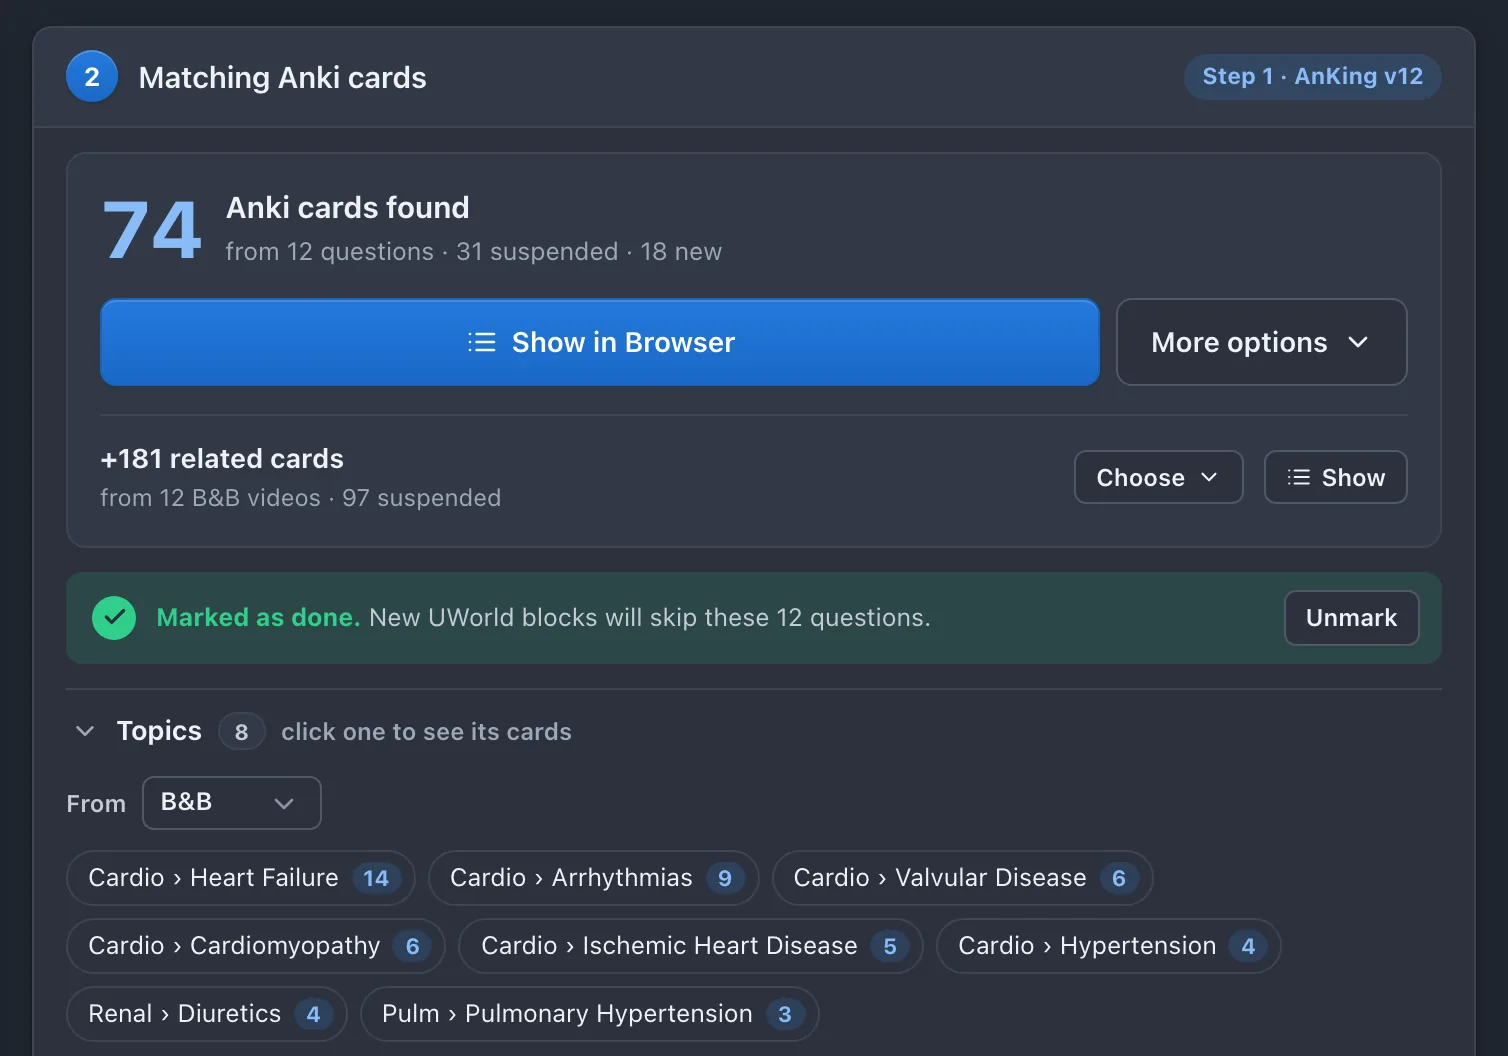
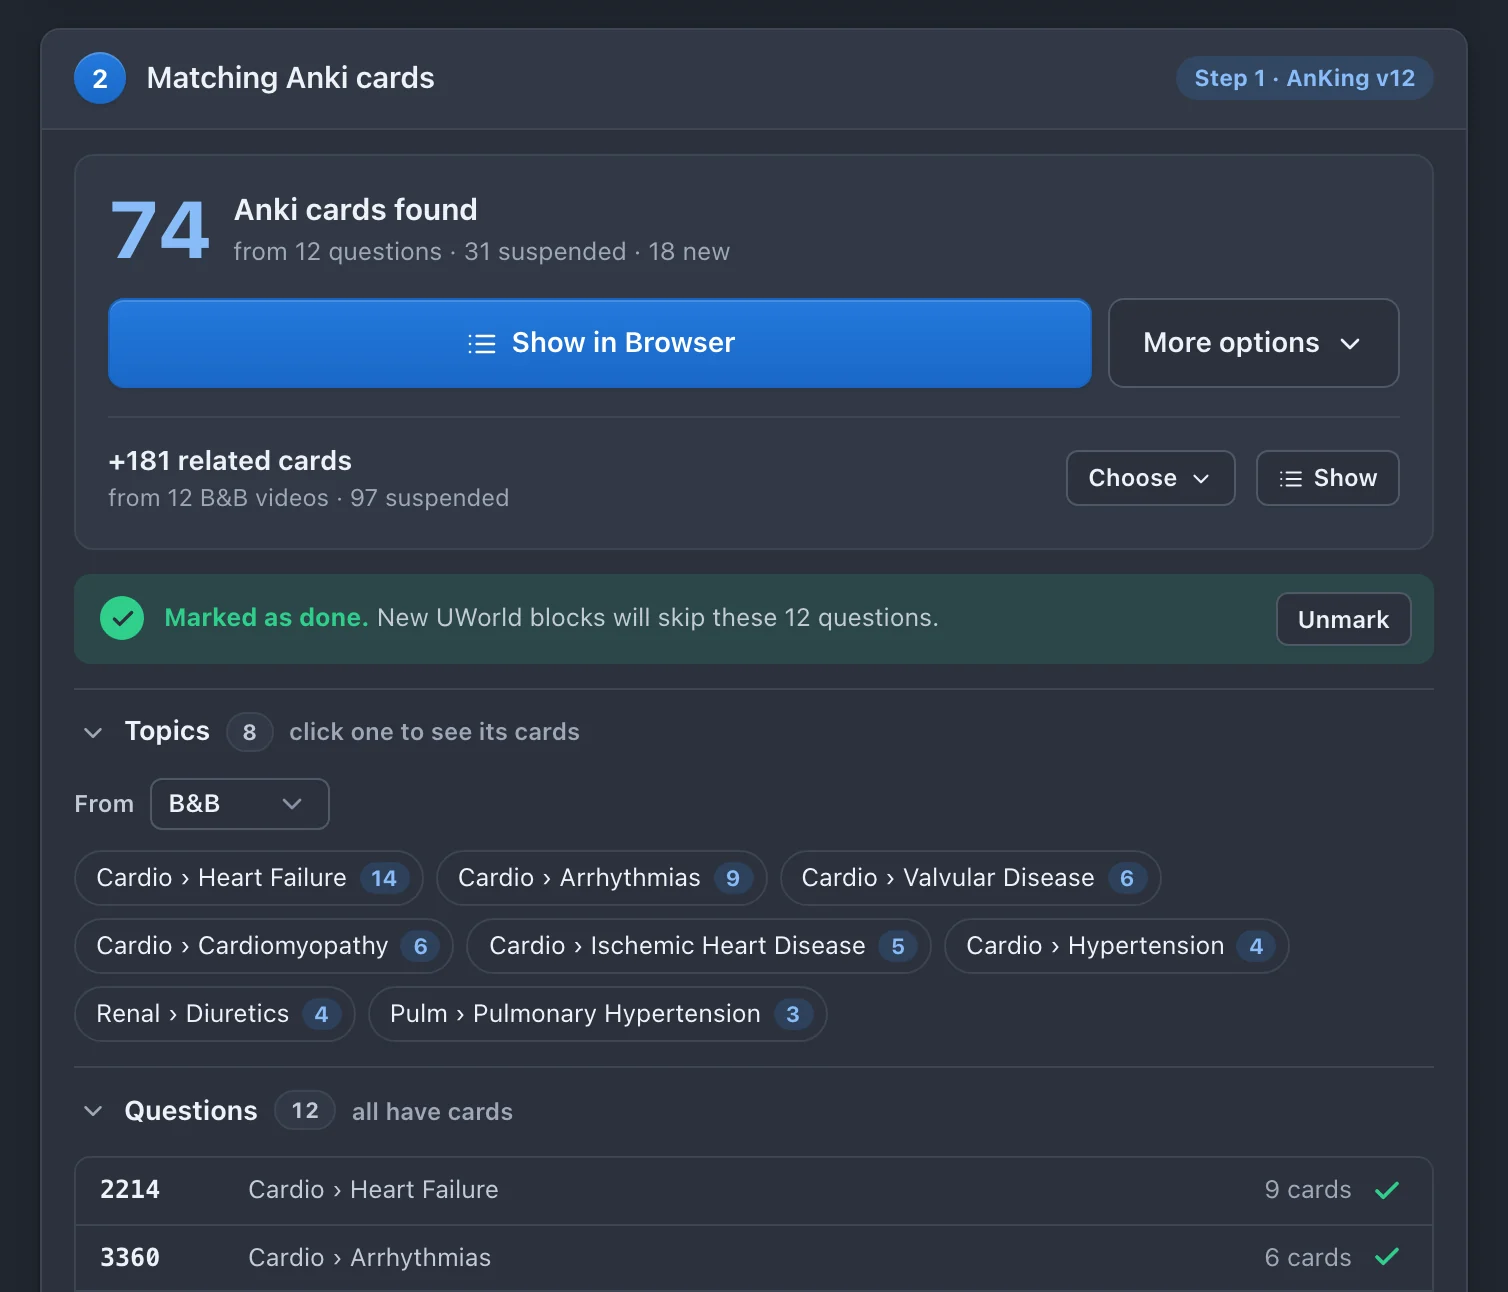
Both add-on tabs in the hero

diff --git a/index.html b/index.html
@@ -90,6 +90,9 @@
   <symbol id="i-both" viewBox="0 0 24 24"><path d="M4 8h14.5M15 4.5 18.5 8 15 11.5" fill="none" stroke="currentColor" stroke-width="1.8" stroke-linecap="round" stroke-linejoin="round"/><path d="M20 16H5.5M9 12.5 5.5 16 9 19.5" fill="none" stroke="currentColor" stroke-width="1.8" stroke-linecap="round" stroke-linejoin="round"/></symbol>
   <symbol id="i-blocks" viewBox="0 0 24 24"><rect x="3.5" y="3.5" width="7.25" height="7.25" rx="1.8" fill="none" stroke="currentColor" stroke-width="1.8"/><rect x="13.25" y="3.5" width="7.25" height="7.25" rx="1.8" fill="none" stroke="currentColor" stroke-width="1.8"/><rect x="3.5" y="13.25" width="7.25" height="7.25" rx="1.8" fill="none" stroke="currentColor" stroke-width="1.8"/><rect x="13.25" y="13.25" width="7.25" height="7.25" rx="1.8" fill="currentColor" stroke="currentColor" stroke-width="1.8"/></symbol>
   <symbol id="i-history" viewBox="0 0 24 24"><path d="M4 12a8 8 0 1 0 2.4-5.7M4 4.5V8.5h4" fill="none" stroke="currentColor" stroke-width="1.8" stroke-linecap="round" stroke-linejoin="round"/><path d="M12 8v4.3l2.8 1.8" fill="none" stroke="currentColor" stroke-width="1.8" stroke-linecap="round" stroke-linejoin="round"/></symbol>
+  <!-- The add-on's own tab icons: Find Cards (inbox), Find Questions (layers) -->
+  <symbol id="i-inbox" viewBox="0 0 24 24"><g fill="none" stroke="currentColor" stroke-width="1.9" stroke-linecap="round" stroke-linejoin="round"><path d="M22 12h-6l-2 3h-4l-2-3H2"/><path d="M5.45 5.11 2 12v6a2 2 0 0 0 2 2h16a2 2 0 0 0 2-2v-6l-3.45-6.89A2 2 0 0 0 16.76 4H7.24a2 2 0 0 0-1.79 1.11z"/></g></symbol>
+  <symbol id="i-layers" viewBox="0 0 24 24"><g fill="none" stroke="currentColor" stroke-width="1.9" stroke-linecap="round" stroke-linejoin="round"><path d="m12 2 10 5-10 5L2 7l10-5z"/><path d="m2 17 10 5 10-5M2 12l10 5 10-5"/></g></symbol>
   <symbol id="i-target" viewBox="0 0 24 24"><circle cx="12" cy="12" r="8.5" fill="none" stroke="currentColor" stroke-width="1.8"/><circle cx="12" cy="12" r="4.5" fill="none" stroke="currentColor" stroke-width="1.8"/><circle cx="12" cy="12" r="1.4" fill="currentColor"/></symbol>
 </svg>
 
@@ -166,30 +169,68 @@
 
   <div class="container hero-visual">
     <div class="hero-shot">
-      <!-- One quiet touch of the logo's bridge: a thin arch over the window -->
-      <svg class="hero-arc" viewBox="0 0 1000 100" aria-hidden="true" focusable="false"><path pathLength="1" d="M40 96A1500 1500 0 0 1 960 96"/></svg>
-      <!-- Phones get just the right-hand panel (74 cards found, topics), big enough to read at a glance -->
-      <figure class="win">
-        <picture class="only-light">
-          <source media="(max-width: 599px)" type="image/webp" srcset="assets/screens/find-cards-panel-light@2x.webp 1508w" sizes="92vw" width="754" height="528">
-          <source media="(max-width: 599px)" srcset="assets/screens/find-cards-panel-light@2x.png 1508w" sizes="92vw" width="754" height="528">
-          <source type="image/webp" srcset="assets/screens/find-cards-light@1200.webp 1200w, assets/screens/find-cards-light@2x.webp 2400w"
-                  sizes="(max-width: 599px) 92vw, (max-width: 1100px) 88vw, 960px">
-          <img src="assets/screens/find-cards-light@2x.png" width="1200" height="906" loading="lazy" fetchpriority="high" decoding="async"
-               alt="UBridge’s Find Cards tab: 74 Anki cards found from 12 pasted UWorld question IDs, with a Show in Browser button and the topics those cards cover.">
-        </picture>
-        <picture class="only-dark">
-          <source media="(max-width: 599px)" type="image/webp" srcset="assets/screens/find-cards-panel-dark@2x.webp 1508w" sizes="92vw" width="754" height="528">
-          <source media="(max-width: 599px)" srcset="assets/screens/find-cards-panel-dark@2x.png 1508w" sizes="92vw" width="754" height="528">
-          <source type="image/webp" srcset="assets/screens/find-cards-dark@1200.webp 1200w, assets/screens/find-cards-dark@2x.webp 2400w"
-                  sizes="(max-width: 599px) 92vw, (max-width: 1100px) 88vw, 960px">
-          <img src="assets/screens/find-cards-dark@2x.png" width="1200" height="906" loading="lazy" fetchpriority="high" decoding="async"
-               alt="UBridge’s Find Cards tab: 74 Anki cards found from 12 pasted UWorld question IDs, with a Show in Browser button and the topics those cards cover.">
-        </picture>
-      </figure>
-      <!-- Both copies are lazy so the other theme's never downloads; the one on show loads right away -->
-      <script>document.querySelectorAll(".hero-shot img").forEach(function (i) { if (i.offsetParent) i.loading = "eager"; });</script>
-      <p class="hero-caption"><span class="ui">Find Cards:</span> paste the IDs you missed, see the cards that teach them. Demo data.</p>
+      <!-- The add-on's two tabs, UWorld -> Anki first. Shown by script.js; without JS, Find Cards alone. -->
+      <div class="shot-tabs" role="tablist" aria-label="UBridge’s two tabs" hidden>
+        <button class="shot-tab" type="button" role="tab" id="tab-fc" aria-selected="true" aria-controls="shot-fc" tabindex="0"><svg class="shot-tab-icon" aria-hidden="true"><use href="#i-inbox"/></svg><span class="shot-tab-text"><span class="shot-tab-name">Find Cards</span><span class="shot-tab-dir">UWorld&nbsp;<span aria-hidden="true">→</span><span class="visually-hidden">to</span> Anki</span></span></button>
+        <button class="shot-tab" type="button" role="tab" id="tab-fq" aria-selected="false" aria-controls="shot-fq" tabindex="-1"><svg class="shot-tab-icon" aria-hidden="true"><use href="#i-layers"/></svg><span class="shot-tab-text"><span class="shot-tab-name">Find Questions</span><span class="shot-tab-dir">Anki&nbsp;<span aria-hidden="true">→</span><span class="visually-hidden">to</span> UWorld</span></span></button>
+      </div>
+      <div class="shot-stage">
+        <!-- One quiet touch of the logo's bridge: a thin arch over the window -->
+        <svg class="hero-arc" viewBox="0 0 1000 100" aria-hidden="true" focusable="false"><path pathLength="1" d="M40 96A1500 1500 0 0 1 960 96"/></svg>
+
+        <!-- Find Cards. Phones get just the right-hand panel (74 cards found, topics), big enough to read at a glance -->
+        <div class="shot-panel is-on" id="shot-fc" role="tabpanel" aria-labelledby="tab-fc">
+          <figure class="shot-fig">
+            <div class="win">
+              <picture class="only-light">
+                <source media="(max-width: 599px)" type="image/webp" srcset="assets/screens/find-cards-panel-light@2x.webp 1508w" sizes="92vw" width="754" height="646">
+                <source media="(max-width: 599px)" srcset="assets/screens/find-cards-panel-light@2x.png 1508w" sizes="92vw" width="754" height="646">
+                <source type="image/webp" srcset="assets/screens/find-cards-light@1200.webp 1200w, assets/screens/find-cards-light@2x.webp 2400w"
+                        sizes="(max-width: 599px) 92vw, (max-width: 1100px) 88vw, 960px" width="1200" height="904">
+                <img src="assets/screens/find-cards-light@2x.png" width="1200" height="904" loading="lazy" fetchpriority="high" decoding="async"
+                     alt="UBridge’s Find Cards tab: 74 Anki cards found from 12 pasted UWorld question IDs, with a Show in Browser button and the topics those cards cover.">
+              </picture>
+              <picture class="only-dark">
+                <source media="(max-width: 599px)" type="image/webp" srcset="assets/screens/find-cards-panel-dark@2x.webp 1508w" sizes="92vw" width="754" height="646">
+                <source media="(max-width: 599px)" srcset="assets/screens/find-cards-panel-dark@2x.png 1508w" sizes="92vw" width="754" height="646">
+                <source type="image/webp" srcset="assets/screens/find-cards-dark@1200.webp 1200w, assets/screens/find-cards-dark@2x.webp 2400w"
+                        sizes="(max-width: 599px) 92vw, (max-width: 1100px) 88vw, 960px" width="1200" height="904">
+                <img src="assets/screens/find-cards-dark@2x.png" width="1200" height="904" loading="lazy" fetchpriority="high" decoding="async"
+                     alt="UBridge’s Find Cards tab: 74 Anki cards found from 12 pasted UWorld question IDs, with a Show in Browser button and the topics those cards cover.">
+              </picture>
+            </div>
+            <figcaption class="hero-caption">Paste the IDs you missed, see the cards that teach them. Demo data.</figcaption>
+          </figure>
+        </div>
+
+        <!-- Find Questions. Lazy: script.js lets it load once the page has, so the first tab comes first.
+             Phones get its right-hand card (the stats and the ready-to-paste blocks). -->
+        <div class="shot-panel" id="shot-fq" role="tabpanel" aria-labelledby="tab-fq" hidden>
+          <figure class="shot-fig">
+            <div class="win">
+              <picture class="only-light">
+                <source media="(max-width: 599px)" type="image/webp" srcset="assets/screens/find-questions-panel-light@2x.webp 1508w" sizes="92vw" width="754" height="646">
+                <source media="(max-width: 599px)" srcset="assets/screens/find-questions-panel-light@2x.png 1508w" sizes="92vw" width="754" height="646">
+                <source type="image/webp" srcset="assets/screens/find-questions-light@1200.webp 1200w, assets/screens/find-questions-light@2x.webp 2400w"
+                        sizes="(max-width: 599px) 92vw, (max-width: 1100px) 88vw, 960px" width="1200" height="895">
+                <img src="assets/screens/find-questions-light@2x.png" width="1200" height="895" loading="lazy" decoding="async"
+                     alt="UBridge’s Find Questions tab: the UWorld questions behind your chosen Anki topics, split into ready-to-paste blocks of 40, each with Copy and Copy &amp; mark used buttons.">
+              </picture>
+              <picture class="only-dark">
+                <source media="(max-width: 599px)" type="image/webp" srcset="assets/screens/find-questions-panel-dark@2x.webp 1508w" sizes="92vw" width="754" height="646">
+                <source media="(max-width: 599px)" srcset="assets/screens/find-questions-panel-dark@2x.png 1508w" sizes="92vw" width="754" height="646">
+                <source type="image/webp" srcset="assets/screens/find-questions-dark@1200.webp 1200w, assets/screens/find-questions-dark@2x.webp 2400w"
+                        sizes="(max-width: 599px) 92vw, (max-width: 1100px) 88vw, 960px" width="1200" height="895">
+                <img src="assets/screens/find-questions-dark@2x.png" width="1200" height="895" loading="lazy" decoding="async"
+                     alt="UBridge’s Find Questions tab: the UWorld questions behind your chosen Anki topics, split into ready-to-paste blocks of 40, each with Copy and Copy &amp; mark used buttons.">
+              </picture>
+            </div>
+            <figcaption class="hero-caption">Pick topics, get ready-to-paste blocks of UWorld questions. Demo data.</figcaption>
+          </figure>
+        </div>
+      </div>
+      <!-- Both themes' copies are lazy so the other theme's never downloads; the one on show loads right away -->
+      <script>document.querySelectorAll("#shot-fc img").forEach(function (i) { if (i.offsetParent) i.loading = "eager"; });</script>
     </div>
   </div>
 </section>

diff --git a/styles.css b/styles.css
@@ -46,6 +46,11 @@
   --arc: #006dfd;
   --arc-soft: #75abfa;
   --hero-arc: rgba(0, 109, 253, .5);   /* the thin arch over the hero window */
+  --app-canvas: #e9edf2;           /* the add-on's own window background (from its screenshots) */
+  --seg-track: #edf0f4;            /* the hero's tab switcher, like the add-on's own */
+  --seg-on: #ffffff;
+  --seg-on-ink: #0b5bc4;
+  --seg-on-ring: 0 1px 3px rgba(10, 27, 45, .16), 0 0 0 1px rgba(11, 99, 214, .32);
   --stack-back: #90bbfa;
   --stack-mid: #c1d8fb;
 
@@ -108,6 +113,11 @@
     --arc: #1f78ff;
     --arc-soft: #75abfa;
     --hero-arc: rgba(117, 171, 250, .5);
+    --app-canvas: #21262f;
+    --seg-track: #0e1a2a;
+    --seg-on: #1b2d47;
+    --seg-on-ink: #d3e6fc;
+    --seg-on-ring: 0 1px 3px rgba(0, 0, 0, .4), 0 0 0 1px rgba(108, 176, 255, .5);
     --stack-back: rgba(31, 120, 255, .42);
     --stack-mid: rgba(31, 120, 255, .26);
     color-scheme: dark;
@@ -147,6 +157,11 @@
     --arc: #1f78ff;
     --arc-soft: #75abfa;
     --hero-arc: rgba(117, 171, 250, .5);
+    --app-canvas: #21262f;
+    --seg-track: #0e1a2a;
+    --seg-on: #1b2d47;
+    --seg-on-ink: #d3e6fc;
+    --seg-on-ring: 0 1px 3px rgba(0, 0, 0, .4), 0 0 0 1px rgba(108, 176, 255, .5);
     --stack-back: rgba(31, 120, 255, .42);
     --stack-mid: rgba(31, 120, 255, .26);
     color-scheme: dark;
@@ -539,7 +554,7 @@ html:not(.js) .theme-toggle { display: none; }          /* it needs JS to work *
 }
 
 /* ---- The app window, with one thin arch over it (the logo's bridge, quietly) ---- */
-.hero-visual { margin-top: clamp(64px, 7.5vw, 104px); }
+.hero-visual { margin-top: clamp(32px, 2.8vw, 40px); }
 .hero-shot {
   position: relative;
   width: min(100%, 960px);
@@ -555,14 +570,60 @@ html:not(.js) .theme-toggle { display: none; }          /* it needs JS to work *
 .hero-arc path { fill: none; stroke: var(--hero-arc); stroke-width: 2.2; stroke-linecap: round; }
 .win {
   position: relative; z-index: 1;
+  aspect-ratio: 1200 / 904;           /* both tabs share one frame, so switching never jumps */
   border-radius: var(--r-3);
   overflow: hidden;
   isolation: isolate;
-  background: var(--surface);
+  background: var(--app-canvas);      /* a shorter shot ends on the add-on's own background */
   box-shadow: 0 0 0 1px var(--frame-line), var(--hero-shadow);
 }
 .hero-caption { margin-top: 18px; font-size: var(--fs-small); color: var(--soft); text-wrap: balance; }
-.hero-caption .ui { font-weight: 600; color: var(--muted); }
+
+/* ---- The two tabs, drawn like the add-on's own switch: a sunken track, the chosen tab raised ---- */
+.shot-tabs {
+  display: flex; gap: 3px;
+  width: fit-content;
+  position: relative; z-index: 2;     /* wide screens: it sits in the arch, like a keystone */
+  margin: 0 auto max(10px, 7.2% - 30px);   /* the arch's crown (7.2% of the window's width up) meets its middle */
+  padding: 3px;
+  border-radius: 11px;
+  background: var(--seg-track);
+  border: 1px solid var(--line-strong);
+  box-shadow: inset 0 1px 2px rgba(10, 27, 45, .06);
+}
+.shot-tabs[hidden] { display: none; }
+.shot-tab {
+  -webkit-appearance: none; appearance: none;
+  -webkit-tap-highlight-color: transparent;
+  display: flex; align-items: center; justify-content: center; gap: 10px;
+  min-height: 44px;
+  padding: 6px 20px 6px 15px;
+  border: 0; border-radius: 8px;
+  background: transparent;
+  font: 600 .9375rem/1.2 var(--font-text);
+  color: var(--muted);
+  text-align: left;
+  cursor: pointer;
+  transition: background-color .2s var(--ease), color .2s var(--ease), box-shadow .2s var(--ease);
+}
+.shot-tab:hover { color: var(--ink); }
+.shot-tab[aria-selected="true"] { background: var(--seg-on); color: var(--seg-on-ink); box-shadow: var(--seg-on-ring); cursor: default; }
+.shot-tab:focus-visible { outline-offset: 2px; border-radius: 8px; }
+.shot-tab-icon { width: 18px; height: 18px; flex: none; }
+.shot-tab-text { display: flex; flex-direction: column; }
+.shot-tab-name { white-space: nowrap; }
+.shot-tab-dir { font-size: .75rem; font-weight: 500; color: var(--soft); white-space: nowrap; }
+.shot-tab[aria-selected="true"] .shot-tab-dir { color: inherit; }
+
+/* ---- Both tabs' shots share one cell: the new one fades in on top, then the old one hides ---- */
+.shot-stage { position: relative; display: grid; }
+.shot-panel { grid-area: 1 / 1; min-width: 0; }
+.shot-panel[hidden] { display: none; }
+.shot-panel.is-on { z-index: 1; transition: opacity .38s var(--ease); }
+.shot-panel.is-off { opacity: 0; visibility: hidden; transition: opacity 0s .38s, visibility 0s .38s; pointer-events: none; }
+.shot-panel.is-off .hero-caption { opacity: 0; transition: opacity .12s; }   /* the old line leaves first */
+.shot-panel.is-on.is-entering { opacity: 0; transition: none; }
+#shot-fq .win, #shot-fq .hero-caption { animation: none; }   /* only the first tab plays the load-in */
 
 @media (max-width: 599px) {
   .h1-line { display: inline; }
@@ -574,14 +635,26 @@ html:not(.js) .theme-toggle { display: none; }          /* it needs JS to work *
   .hero-ctas .btn-lg { width: 100%; max-width: 360px; }
   .hero-ctas .soon-pill { margin-top: 8px; }   /* no download: the pill, not a 44px link, comes second */
   .facts { margin-top: 12px; }
-  .hero-visual { margin-top: 44px; }
-  .hero-arc path { stroke-width: 4.4; }
-  .win { border-radius: var(--r-2); }
-}
-@media (max-width: 599px) and (max-height: 600px) {   /* short phones (an iPhone SE in Safari): the app still peeks in */
-  .hero { padding-top: 24px; }
-  .hero-ctas { margin-top: 18px; }
   .hero-visual { margin-top: 30px; }
+  .hero-arc path { stroke-width: 4.4; }
+  .win { border-radius: var(--r-2); aspect-ratio: 754 / 646; }
+  .shot-tabs { width: min(100%, 400px); margin-bottom: calc(7.2% + 12px); }   /* phones: above the arch's crown */
+  .shot-tab { flex: 1 1 0; min-width: 0; gap: 8px; padding-inline: 8px; }
+}
+@media (max-width: 379px) {          /* the smallest phones: the names, without the icons */
+  .shot-tab-icon { display: none; }
+}
+@media (max-width: 599px) {          /* no JS, no tab bar: keep the arch's crown clear of the line above */
+  html:not(.js) .hero-visual { margin-top: 44px; }
+}
+@media (max-width: 599px) and (max-height: 600px) {   /* short phones (an iPhone SE in Safari): tighter, with a one-line tab bar, so the whole bar fits above the fold */
+  .hero { padding-top: 16px; }
+  .hero-ctas { margin-top: 14px; }
+  .facts { margin-top: 8px; }
+  .hero-visual { margin-top: 10px; }
+  .shot-tab-dir { display: none; }
+  .shot-tab { min-height: 40px; padding-block: 4px; }
+  .shot-tabs { margin-bottom: calc(7.2% + 6px); }
 }
 
 /* ==========================================================================
@@ -883,6 +956,7 @@ details[open] > summary .pm::after { transform: translate(-50%, -50%) rotate(0de
   .hero-ctas  { animation: ub-rise .7s var(--ease) .48s backwards; }
   .facts      { animation: ub-rise .7s var(--ease) .56s backwards; }
 
+  .shot-tabs  { animation: ub-rise .7s var(--ease) .56s backwards; }
   .win { animation: ub-win .95s var(--ease) .5s backwards; }
   .hero-arc path { animation: ub-draw 1.1s cubic-bezier(.45, 0, .2, 1) .85s backwards; }
   .hero-caption { animation: ub-fade .6s ease 1.1s backwards; }

diff --git a/script.js b/script.js
@@ -333,6 +333,77 @@ const UB_CONFIG = {
     }).observe(el);
   }
 
+  /* ---------- Hero tabs: Find Cards / Find Questions, like the add-on's own switch ----------
+     ARIA tabs with a roving tabindex (Left/Right, Home/End). The new shot fades in over the old
+     one (instant with reduced motion). Find Questions starts hidden and lazy: it's let in to load
+     once the page has, or as soon as someone points at its tab. Without JS: Find Cards alone. */
+  function setupHeroTabs() {
+    const list = document.querySelector(".shot-tabs");
+    if (!list) return;
+    const tabs = Array.from(list.querySelectorAll('[role="tab"]'));
+    const panelOf = (tab) => document.getElementById(tab.getAttribute("aria-controls"));
+    const wake = (panel) => {                       // let a hidden panel's lazy images load, still unseen
+      if (!panel.hidden) return;
+      panel.classList.add("is-off");
+      panel.hidden = false;
+      panel.querySelectorAll("img").forEach((i) => { if (i.offsetParent) i.loading = "eager"; });   // this theme's copy only
+    };
+    const ready = (panel) => {                      // wait (briefly) for the shot on show to decode
+      const img = Array.from(panel.querySelectorAll("img")).find((i) => i.offsetParent);
+      if (!img || (img.complete && img.naturalWidth)) return Promise.resolve();
+      const done = img.decode ? img.decode().catch(() => {}) : new Promise((r) => { img.onload = img.onerror = r; });
+      return Promise.race([done, new Promise((r) => setTimeout(r, 700))]);
+    };
+    let current = tabs.find((t) => t.getAttribute("aria-selected") === "true") || tabs[0];
+    let pending = 0;
+    const select = (tab, focus) => {
+      if (focus) tab.focus();
+      if (tab === current) return;
+      const from = panelOf(current), to = panelOf(tab);
+      tabs.forEach((t) => {
+        const on = t === tab;
+        t.setAttribute("aria-selected", on ? "true" : "false");
+        t.tabIndex = on ? 0 : -1;
+      });
+      current = tab;
+      const ticket = ++pending;
+      wake(to);
+      ready(to).then(() => {
+        if (ticket !== pending) return;             // a quicker second click won
+        tabs.forEach((t) => {
+          const p = panelOf(t);
+          if (p !== to && p.classList.contains("is-on")) { p.classList.remove("is-on"); p.classList.add("is-off"); }
+        });
+        if (from !== to) {
+          to.classList.add("is-entering", "is-on");
+          to.classList.remove("is-off");
+          void to.offsetWidth;                      // start the fade from 0
+          to.classList.remove("is-entering");
+        }
+      });
+    };
+    tabs.forEach((tab, i) => {
+      tab.addEventListener("click", () => select(tab, false));
+      tab.addEventListener("keydown", (e) => {
+        let j = -1;
+        if (e.key === "ArrowRight") j = (i + 1) % tabs.length;
+        else if (e.key === "ArrowLeft") j = (i - 1 + tabs.length) % tabs.length;
+        else if (e.key === "Home") j = 0;
+        else if (e.key === "End") j = tabs.length - 1;
+        if (j < 0) return;
+        e.preventDefault();
+        select(tabs[j], true);
+      });
+      tab.addEventListener("pointerenter", () => wake(panelOf(tab)), { once: true });
+      tab.addEventListener("focus", () => wake(panelOf(tab)), { once: true });
+    });
+    list.hidden = false;
+    const wakeAll = () => tabs.forEach((t) => wake(panelOf(t)));
+    const later = () => (window.requestIdleCallback ? requestIdleCallback(wakeAll, { timeout: 2500 }) : setTimeout(wakeAll, 800));
+    if (document.readyState === "complete") later();
+    else window.addEventListener("load", later, { once: true });
+  }
+
   /* ---------- In-page links: smooth on click only (programmatic jumps stay instant); focus follows ---------- */
   function setupAnchors() {
     document.addEventListener("click", (e) => {
@@ -437,5 +508,6 @@ const UB_CONFIG = {
   openLinkedDetails();
   window.addEventListener("hashchange", openLinkedDetails);
   setupReveal();
+  setupHeroTabs();
   setupHeroDepth();
 })();
